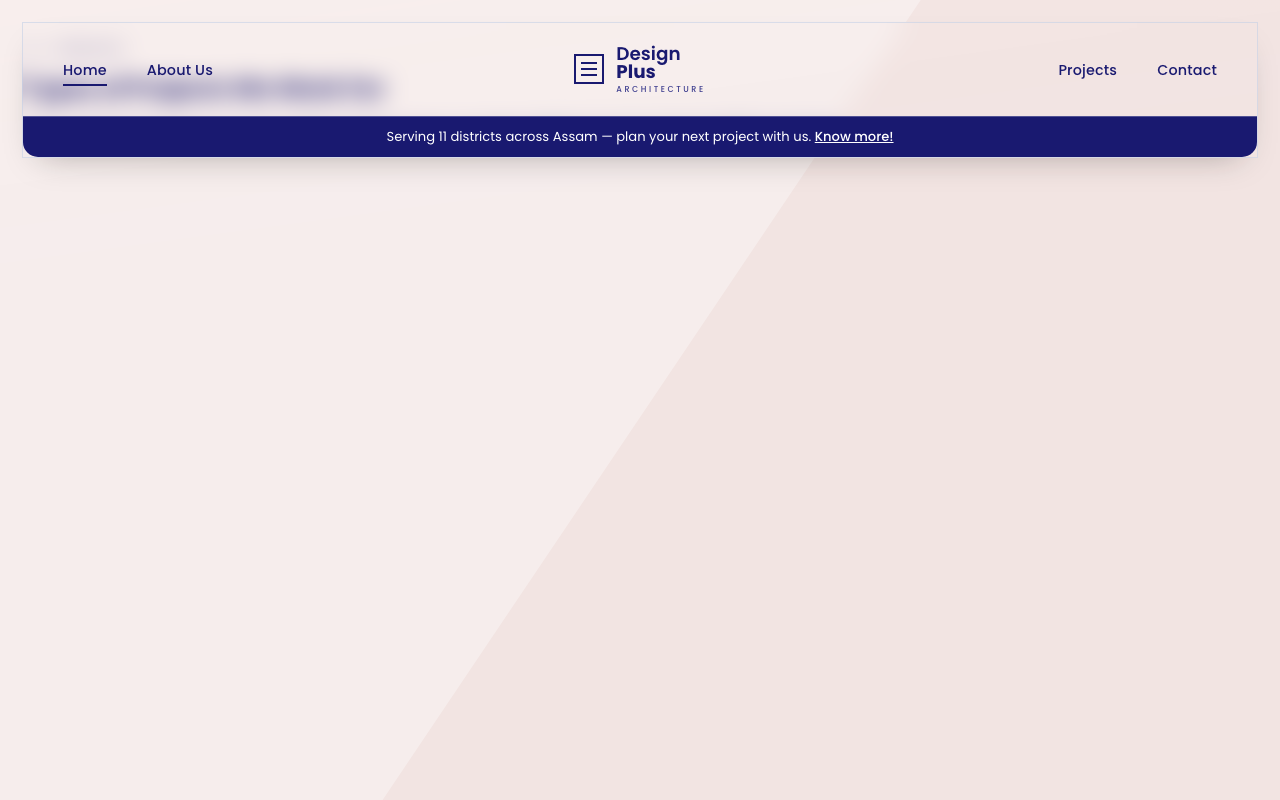
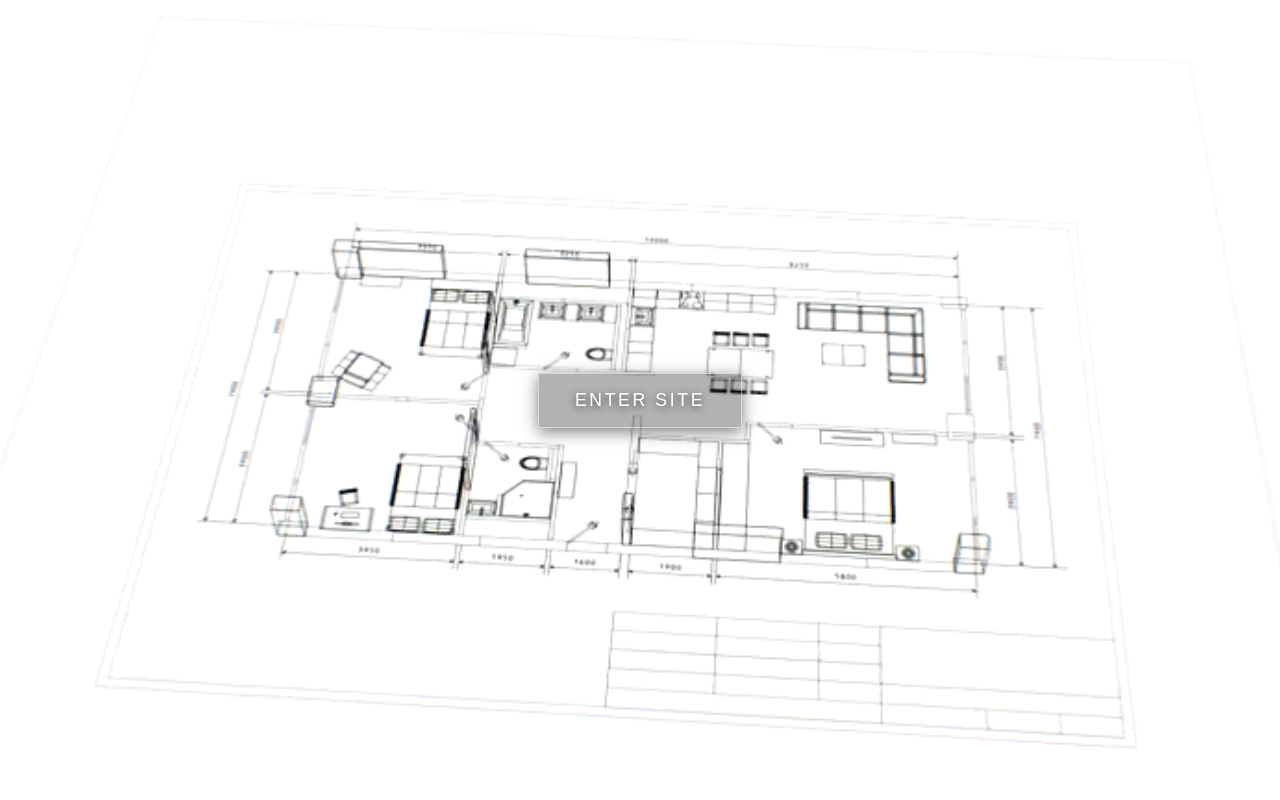
🛡 Sentinel: [CRITICAL] Fix arbitrary file upload RCE in gallery.php

diff --git a/admin/gallery.php b/admin/gallery.php
@@ -16,7 +16,14 @@ if ($_SERVER['REQUEST_METHOD'] === 'POST') {
             if (!is_dir($upload_dir)) {
                 mkdir($upload_dir, 0755, true);
             }
-            $file_name = time() . '_' . basename($_FILES['image']['name']);
+            $allowed_exts = ['jpg', 'jpeg', 'png', 'webp', 'gif'];
+            $ext = strtolower(pathinfo($_FILES['image']['name'], PATHINFO_EXTENSION));
+            $allowed_mimes = ['image/jpeg', 'image/png', 'image/webp', 'image/gif'];
+            $mime = mime_content_type($_FILES['image']['tmp_name']);
+            if (!in_array($ext, $allowed_exts) || !in_array($mime, $allowed_mimes)) {
+                die('Invalid file type.');
+            }
+            $file_name = time() . '_' . preg_replace('/[^a-zA-Z0-9._-]/', '', basename($_FILES['image']['name']));
             $target_file = $upload_dir . $file_name;
             if (move_uploaded_file($_FILES['image']['tmp_name'], $target_file)) {
                 $image_path = 'images/site/gallery_uploads/' . $file_name;
@@ -41,7 +48,14 @@ if ($_SERVER['REQUEST_METHOD'] === 'POST') {
             if (!is_dir($upload_dir)) {
                 mkdir($upload_dir, 0755, true);
             }
-            $file_name = time() . '_' . basename($_FILES['image']['name']);
+            $allowed_exts = ['jpg', 'jpeg', 'png', 'webp', 'gif'];
+            $ext = strtolower(pathinfo($_FILES['image']['name'], PATHINFO_EXTENSION));
+            $allowed_mimes = ['image/jpeg', 'image/png', 'image/webp', 'image/gif'];
+            $mime = mime_content_type($_FILES['image']['tmp_name']);
+            if (!in_array($ext, $allowed_exts) || !in_array($mime, $allowed_mimes)) {
+                die('Invalid file type.');
+            }
+            $file_name = time() . '_' . preg_replace('/[^a-zA-Z0-9._-]/', '', basename($_FILES['image']['name']));
             $target_file = $upload_dir . $file_name;
             if (move_uploaded_file($_FILES['image']['tmp_name'], $target_file)) {
                 $image_path = 'images/site/gallery_uploads/' . $file_name;

diff --git a/.jules/sentinel.md b/.jules/sentinel.md
@@ -1,0 +1,4 @@
+## 2024-08-20 - RCE via Arbitrary File Upload
+**Vulnerability:** File upload scripts in `admin/*.php` (like `admin/gallery.php`) used `move_uploaded_file` with only `basename()` sanitization and no file extension or MIME type checks, allowing an attacker with admin access to upload arbitrary `.php` scripts and gain Remote Code Execution (RCE).
+**Learning:** Even internal/admin-facing file upload forms are critical attack vectors if they allow arbitrary file types. The application relies on saving files directly into the webroot (`images/` directory).
+**Prevention:** Always validate both the file extension against an allowlist and the MIME type (using `mime_content_type`) before calling `move_uploaded_file`. Additionally, sanitize the file name to prevent path traversal issues.
